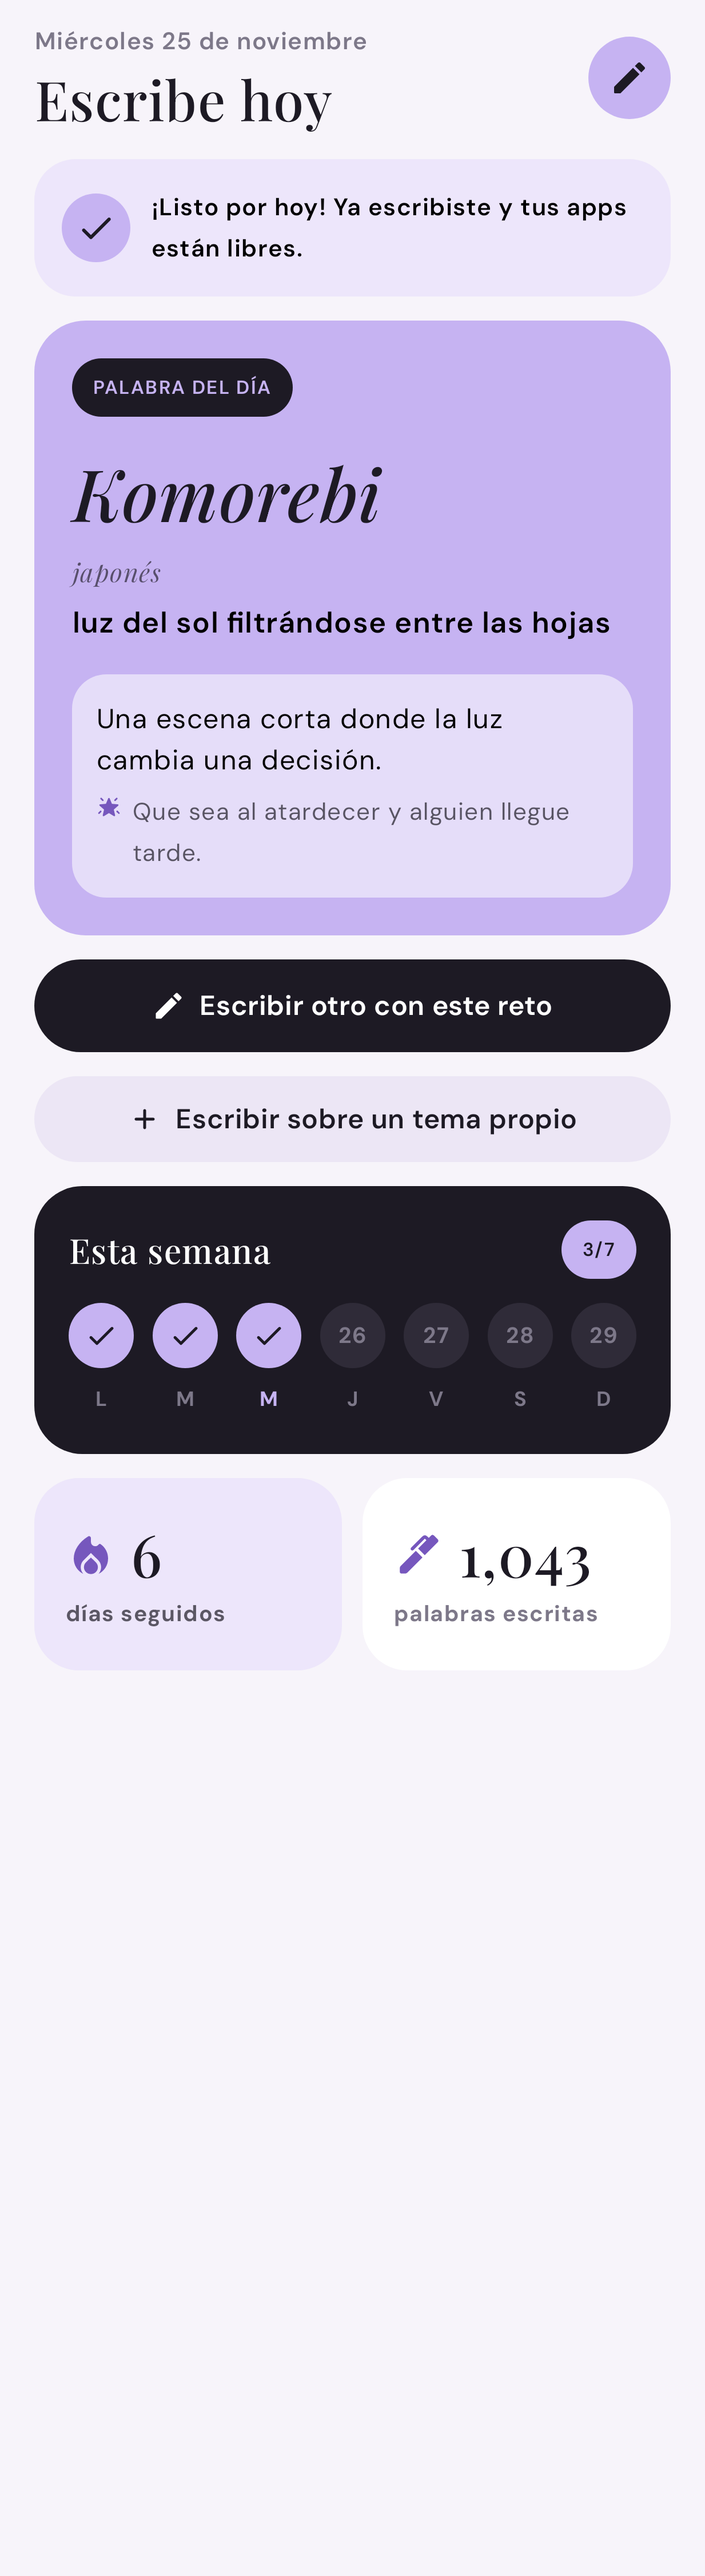
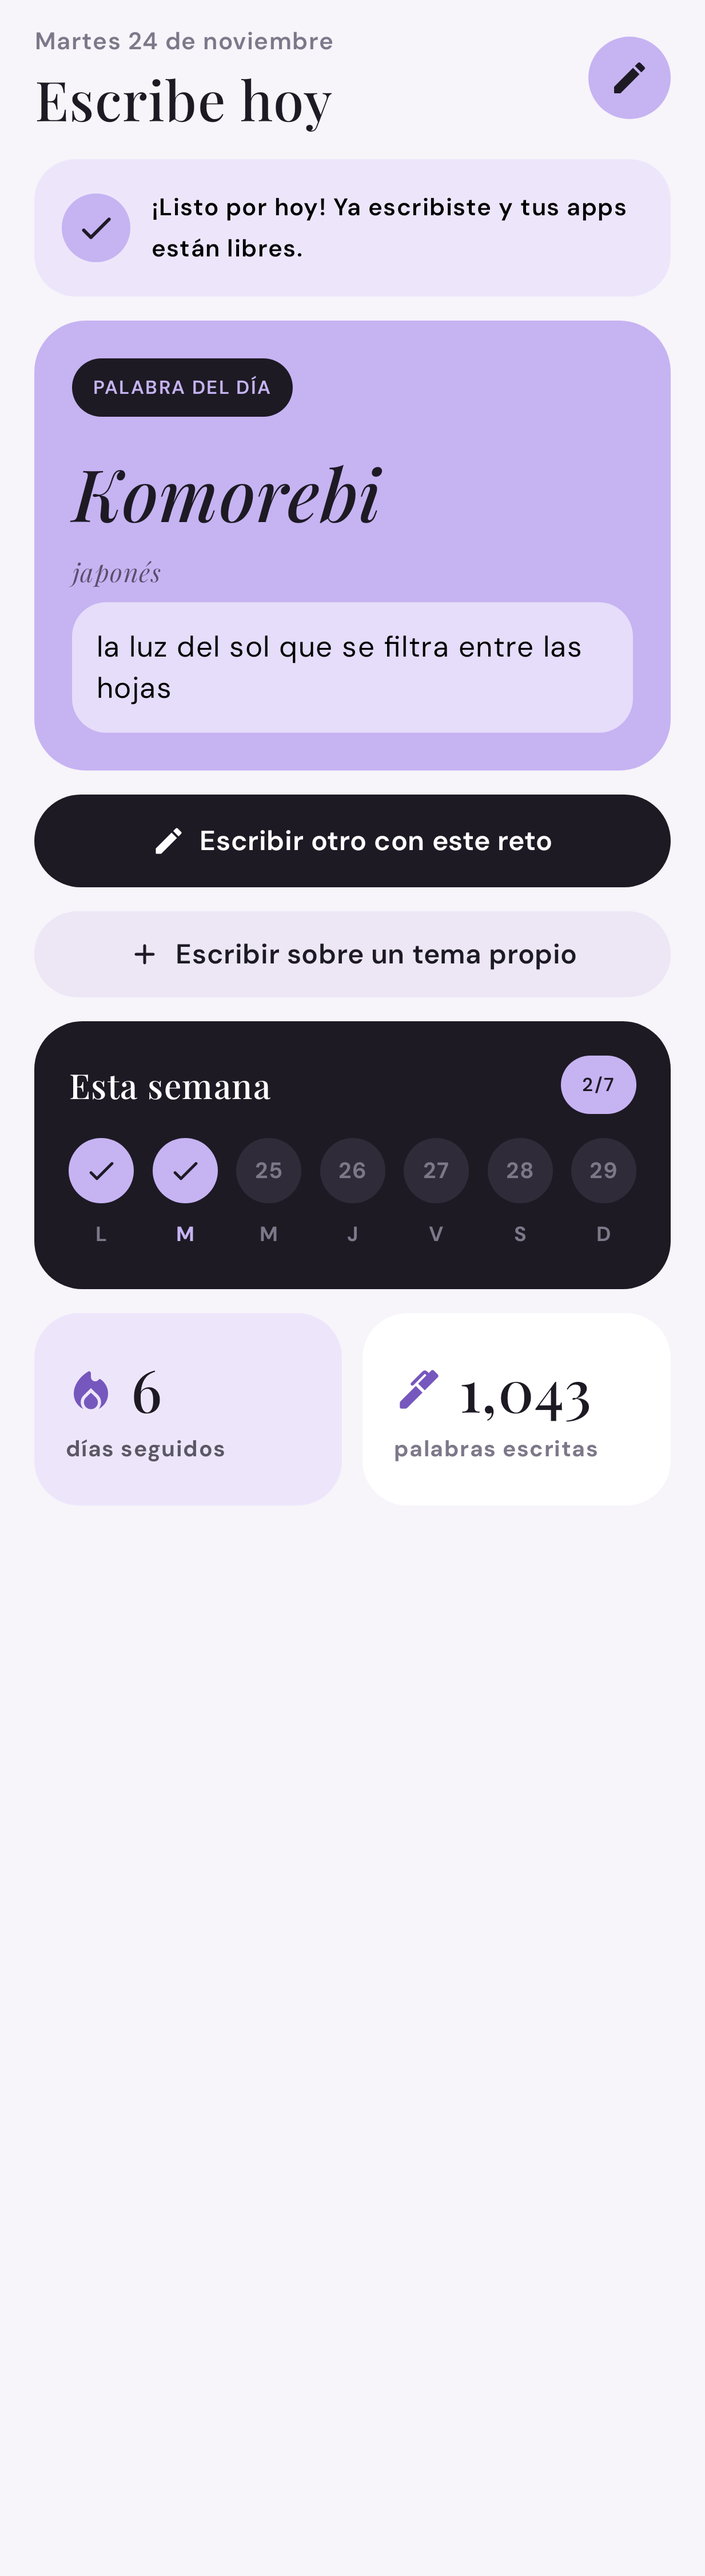
docs: actualiza las capturas con el diseño nuevo
Retos de ejemplo con el formato corto, botón «Lista», barra pequeña,
editor con la portada de fondo y recuadro oscuro, y botón Editar en la
historia. La portada del README ahora incluye el editor.

diff --git a/app/src/test/java/com/escribe/diario/ScreenshotTest.kt b/app/src/test/java/com/escribe/diario/ScreenshotTest.kt
@@ -27,16 +27,10 @@ class ScreenshotTest {
     @get:Rule val rule = createComposeRule()
     private lateinit var store: Store
     private val ctx: Context get() = ApplicationProvider.getApplicationContext()
-    private val prompt = Prompt("Komorebi", "japonés", "luz del sol filtrándose entre las hojas",
-        "Una escena corta donde la luz cambia una decisión.", "Que sea al atardecer y alguien llegue tarde.")
-
-    // Retos que generó Gemma 4 E4B en una prueba real (solo se corrigió «una acorde»).
-    private val frase = Prompt("Le coup de foudre", "francés", "«el golpe de rayo»: amor a primera vista",
-        "Un músico de jazz y un poeta se encuentran en una cafetería ruidosa, y el primer beso es como el choque inesperado de un acorde perfecto.",
-        "Él solo escuchó el latido de su corazón en medio del blues.", "frase")
-    private val tema = Prompt("Café en el Invierno Eterno", "", "romance suave, AU",
-        "Dos amigos de la infancia se encuentran en una cafetería bajo una nieve perpetua que nunca se derrite.",
-        "El frío no es natural, es magia compartida.", "tema")
+    // Retos tal como salen de assets/lista.txt: arriba la palabra, la frase resumida o el tema; en el recuadro, lo demás.
+    private val prompt = Prompt("Komorebi", "japonés", "", "la luz del sol que se filtra entre las hojas", "", "palabra")
+    private val frase = Prompt("Llueven cuerdas", "francés", "", "Il pleut des cordes", "«Llueven cuerdas»: llueve a cántaros", "frase")
+    private val tema = Prompt("Viaje en el tiempo", "", "", "ir o volver a otra época", "", "tema")
 
     private fun cover(name: String): String {
         val out = File(ctx.filesDir, "covers/$name").apply { parentFile!!.mkdirs() }
@@ -51,6 +45,7 @@ Había practicado mil formas de decirlo, pero ahora, bajo ese temblor dorado de 
     private fun seed(includeToday: Boolean) {
         ctx.getSharedPreferences("escribe", Context.MODE_PRIVATE).edit().clear().commit()
         store = Store(ctx)
+        store.minWords = 50   // mientras se agregan, para que las historias de ejemplo cuenten como terminadas
         store.savePrompt(prompt)
         val t = LocalDate.now()
         store.addEntry("Meraki", "griego", "Un personaje cocina con todo el cariño.", "x ".repeat(150), null, false, t.minusDays(5), 1)
@@ -59,6 +54,7 @@ Había practicado mil formas de decirlo, pero ahora, bajo ese temblor dorado de 
         store.addEntry("Kintsugi", "japonés", "Una amistad rota que se arregla.", "x ".repeat(180), cover("cups.jpg"), false, t.minusDays(2), 4)
         store.addEntry("Saudade", "portugués", "Extrañar un lugar al que no se puede volver.", "x ".repeat(312), cover("sea.jpg"), false, t.minusDays(1), 5)
         if (includeToday) store.addEntry("Komorebi", "japonés", prompt.theme, sample, cover("forest.jpg"), false, t, 6)
+        store.minWords = 200
     }
 
     private fun shot(name: String, content: @androidx.compose.runtime.Composable () -> Unit) {
